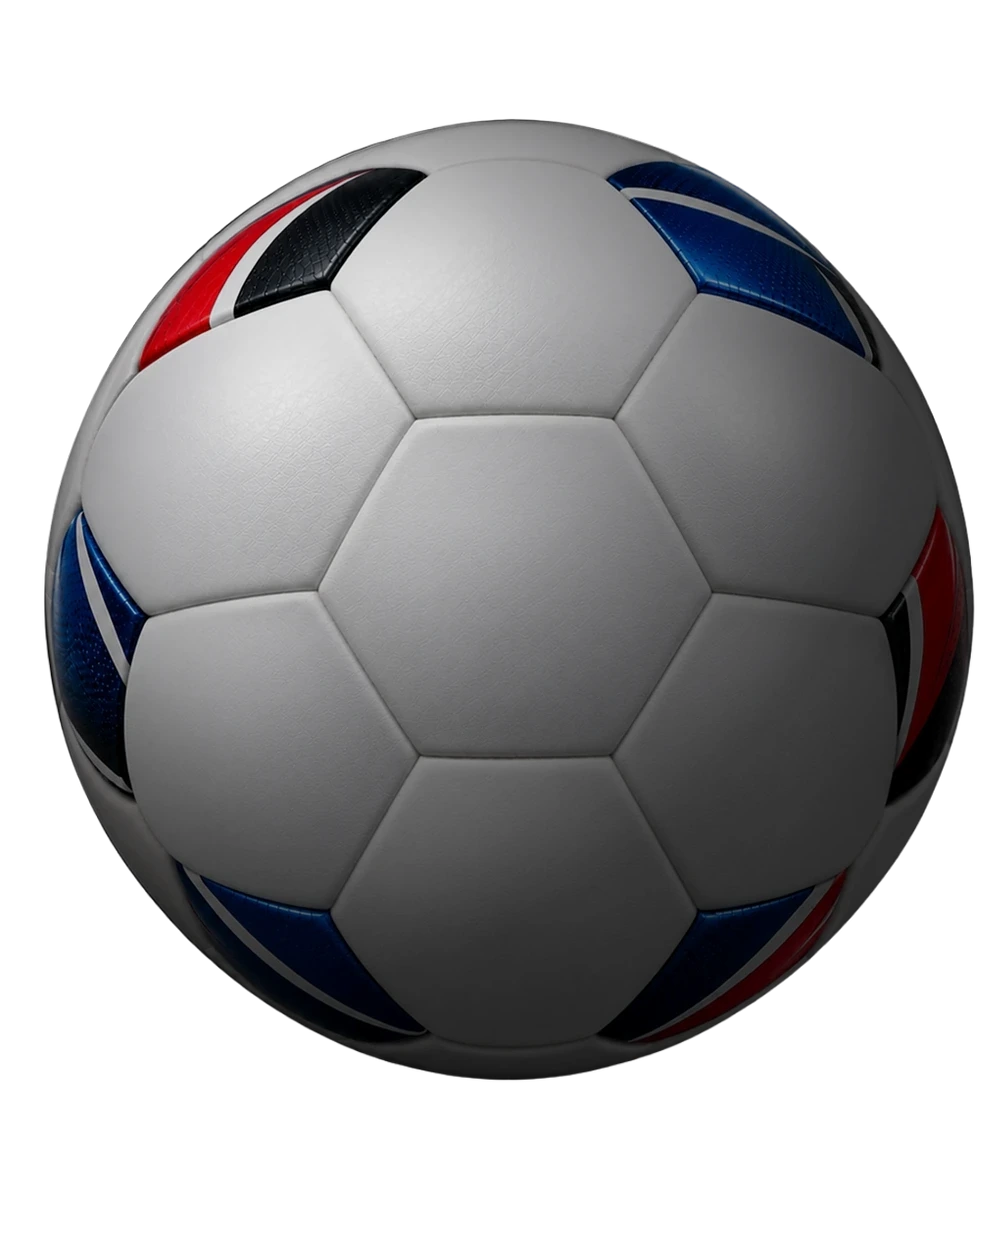
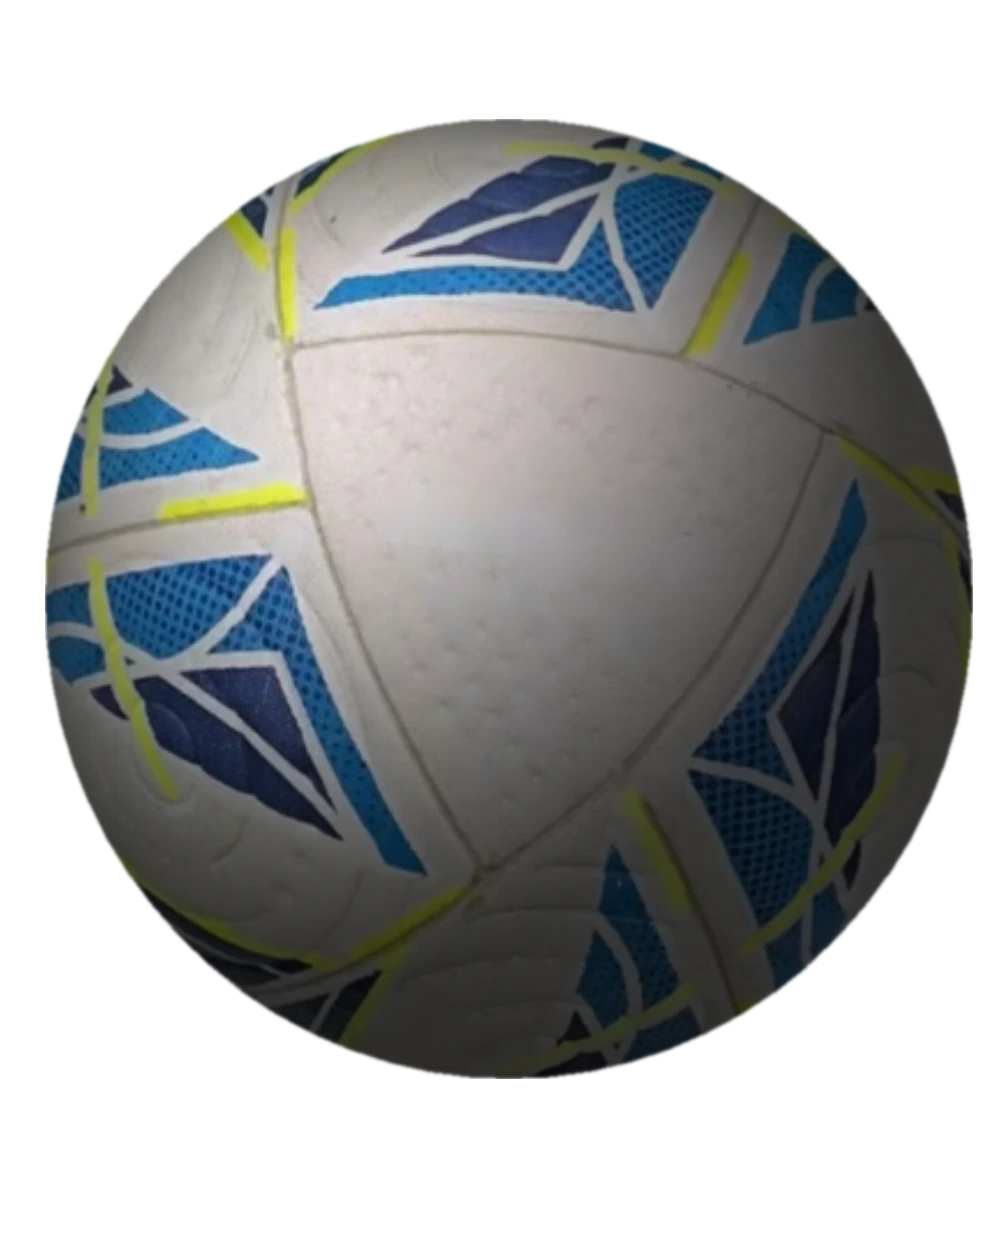
인트로: 잔디 위 공 교체(브랜드 글씨 제거, J 가운데) + 마지막 등장 + 잔디 평평하게
Claude-Session: https://claude.ai/code/session_017rSKLJUKrC3BC1iaB8TaZM

diff --git a/src/app/globals.css b/src/app/globals.css
@@ -118,12 +118,12 @@ html { scroll-behavior: smooth; }
 .intro-roll, .intro-rollshadow { position: absolute; left: 67.64%; top: 49.57%; width: 7.75%; height: 19.37%; }
 .intro-roll { visibility: hidden; }
 /* 두 번째 공: 첫 공이 사라지는 동안 잔디 위에서 서서히 나타남 (그림자는 공 이미지에 구워져 있음) */
-.intro-rollfree { position: absolute; left: 0; top: 0; width: 0; height: 0; pointer-events: none; opacity: clamp(0, calc((var(--p) - .20) / .30), 1); }
+.intro-rollfree { position: absolute; left: 0; top: 0; width: 0; height: 0; pointer-events: none; opacity: clamp(0, calc((var(--p) - .56) / .26), 1); }
 .intro-rollfree img { position: absolute; display: block; left: 0; top: 0; width: 100%; height: 100%; object-fit: fill; }
 .intro-rollball { position: absolute; inset: 0; }
-.intro-rollball .intro-re { opacity: clamp(0, calc((var(--p) - .42) / .22), 1); }
+.intro-rollball .intro-re { opacity: clamp(0, calc((var(--p) - .74) / .20), 1); }
 /* 그림자: 빛은 왼쪽 위 → 그림자는 공 오른쪽 아래 */
-.intro-rollshadow { pointer-events: none; opacity: clamp(0, calc((var(--p) - .20) / .30), 1); }
+.intro-rollshadow { pointer-events: none; opacity: clamp(0, calc((var(--p) - .56) / .26), 1); }
 .intro-rollshadow i { position: absolute; display: block; border-radius: 50%; background: #000; }
 .intro-rollshadow .intro-w { left: 7.3%; top: 40.9%; width: 160%; height: 69.8%; opacity: .5; filter: blur(max(1.1vw, 2.2vh)); }
 .intro-rollshadow .intro-c { left: 14.9%; top: 69.9%; width: 83.9%; height: 23.2%; opacity: .85; filter: blur(max(.45vw, .9vh)); }
